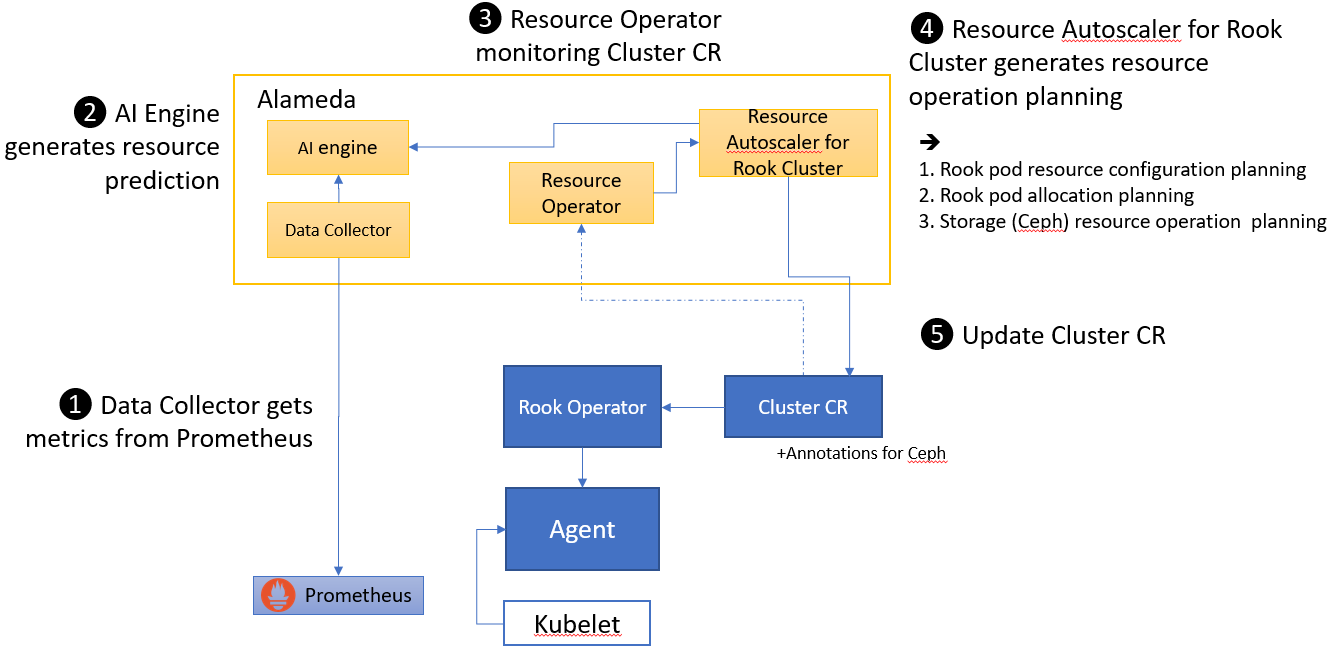
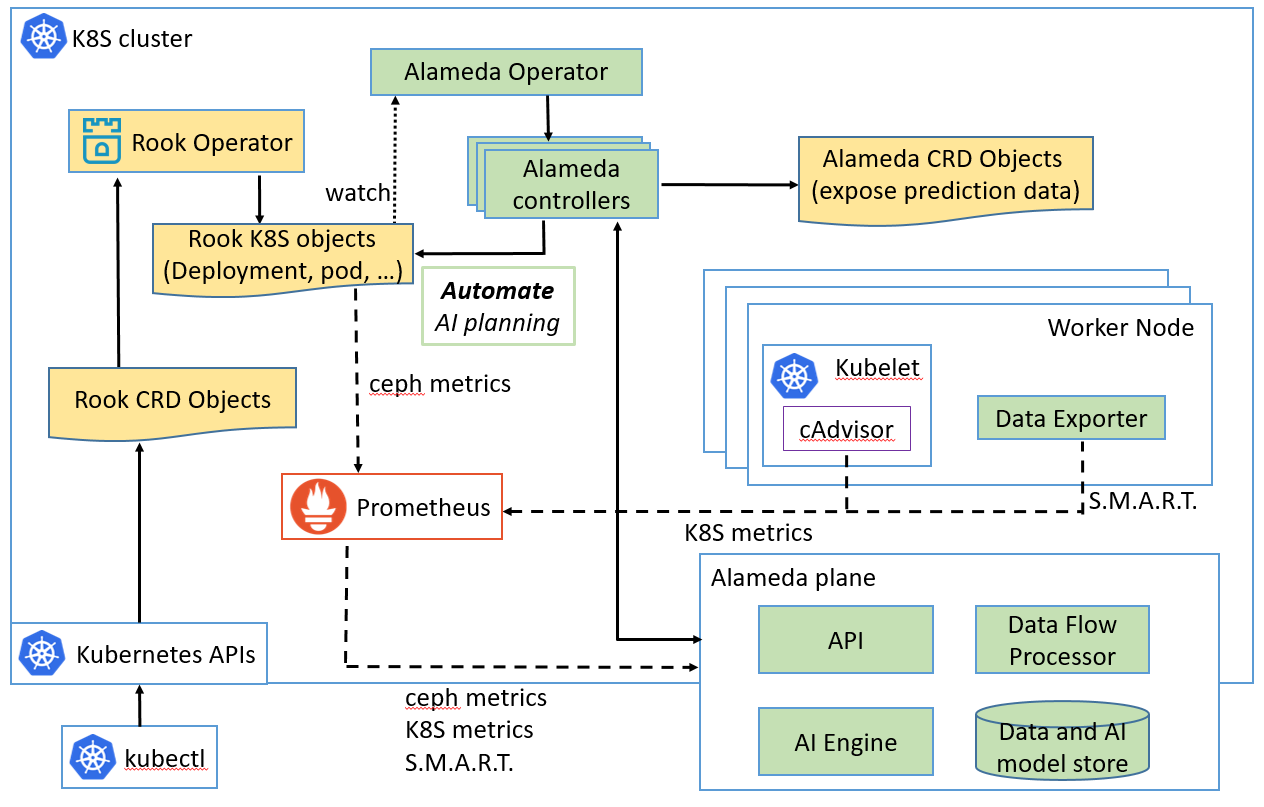
refine Alameda design

diff --git a/design/Alameda/design.md b/design/Alameda/design.md
@@ -20,41 +20,102 @@ Our first take is to provide the following features, which we consider they are 
 
 ## How Alameda works
 
-1. Alameda data collector gets metrics from Prometheus (e.g., CPU, memory, Ceph metrics)  
-No Alameda Agent is needed.
-2. Alameda AI engine generates resource prediction
-3. Alameda resource operator monitors Rook cluster CustomResource (CR) 
-Alameda monitors rook CR with Alameda annotations. For example, Rook user can add ```container.ai/autoscale``` and ```container.ai/diskFailurePrediction``` annotations in their *cluster.yaml* as:
-<pre>
-    apiVersion: v1
-    kind: Namespace
-    metadata:
-      name: rook
-    ---
-    apiVersion: rook.io/v1alpha1
-    kind: Cluster
-    metadata:
-      name: rook
-      namespace: rook
-      <b>annotations:
-        container.ai/autoscale: true
-        container.ai/diskFailurePrediction: true
-        container.ai/capacityTrendingPrediction: true</b>
-    spec:
-      versionTag: v0.5.1
-      dataDirHostPath:
-      storage:
-        useAllNodes: true
-        useAllDevices: false
-        storeConfig:
-          storeType: filestore
-          databaseSizeMB: 1024
-          journalSizeMB: 1024
-</pre>
+1. Alameda watches objects which need Alameda service  
+Proposal 1: by adding Alameda annotations to Rook CRD objects  
+Proposal 2: by creating Alameda CRD objects to specify users' K8S deployment objects.
 
-4. Alameda generates resource operation planning for Rook cluster
-5. Alameda update cluster CR  
-Alameda will (1) update CR spec, or (2) update CR spec with new definitions of planning. No matter they are (1) or (2), Rook needs to change the logic of watching CR.
+2. Alameda utilizes prometheus to scrape data, and these data is adapted into Alameda plane  
+Alameda does not have data collection agent.
+
+3. Alameda AI engine generates resource prediction  
+
+4. Alameda exposes prediction raw data via Alameda CRD objects  
+For example, with these prediction, Rook can (1) update CR spec, or (2) update CR spec with new definitions of planning.
+
+5. Alameda automates AI planning based on these prediction raw dataa  
+
 
 ![work_flow](./Alameda_work_with_Rook.png)
+
+## Request Alameda services by annotating Rook CRD objects (Proposal 1)
+
+Rook users deploy a ceph cluster by creating a Rook CRD cluster object. Rook operator will create _Deployment_, _ReplicaSet_ and _Pod_ objects subsequently according to this cluster object. All these subsequent objects can be traced back to the Rook CRD cluster object by looking into the _ownerReferences_ metadata. To request Alameda services, Rook users can annotate a Rook CRD cluster object with Alameda annotations. For example, Rook users can add ```containers.ai/autoscale```, ```containers.ai/diskFailurePrediction``` and ```containers.ai/capacityTrendingPrediction``` annotations in their *cluster.yaml* as:
+<pre>
+	apiVersion: ceph.rook.io/v1beta1
+    kind: Cluster
+    metadata:
+      name: rook-ceph
+      namespace: rook-ceph
+      <b>annotations:
+        containers.ai/autoscale: true
+        containers.ai/diskFailurePrediction: true
+        containers.ai/capacityTrendingPrediction: true</b>
+    spec:
+      dataDirHostPath: /var/lib/rook
+      serviceAccount: rook-ceph-cluster
+      storage:
+        useAllNodes: true
+        useAllDevices: true
+</pre>
+
+Then Rook operator will create a _Deployment_ object such as:
+<pre>
+    apiVersion: extensions/v1beta1
+    kind: Deployment
+    metadata:
+      annotations:
+        deployment.kubernetes.io/revision: "1"
+      creationTimestamp: 2018-09-24T06:59:25Z
+      generation: 5
+      labels:
+        app: rook-ceph-osd
+        ceph-osd-id: "1"
+        rook_cluster: rook-ceph
+      name: rook-ceph-osd-id-1
+      namespace: rook-ceph
+      ownerReferences:
+      - apiVersion: v1beta1
+        blockOwnerDeletion: true
+        kind: Cluster
+        name: rook-ceph
+        uid: e1ec433a-96f4-11e8-b01a-0a168aa5aac2
+      resourceVersion: "11765632"
+      selfLink: /apis/extensions/v1beta1/namespaces/rook-ceph/deployments/rook-ceph-osd-id-1
+      uid: 5f21a46e-bfc7-11e8-8e77-0645df3fb718
+</pre>
+
+By tracing back the _ownerReferences_ information, Alameda knows users request Alameda services.
+
+## Request Alameda services by creating Alameda CRD objects (Proposal 2)
+
+When Rook users create a Rook cluster CRD object, Rook operator may create an _Deployment_ object with the following yaml:
+<pre>
+    apiVersion: extensions/v1beta1
+    kind: Deployment
+    metadata:
+      name: rook-ceph-osd-id-1
+      namespace: rook-ceph
+      labels:
+        app: rook-ceph-osd
+        ceph-osd-id: "1"
+        rook_cluster: rook-ceph
+    spec:
+        ...
+</pre>
+meanwhile, Rook operator needs to also create an Alameda CRD object as the following yaml to request Alameda for services:
+<pre>
+	apiVersion: containers.ai/v1beta1
+    kind: Deployment
+    metadata:
+      <b>annotations:
+        containers.ai/autoscale: true
+        containers.ai/diskFailurePrediction: true
+        containers.ai/capacityTrendingPrediction: true</b>
+    spec:
+      <b>selector:
+        matchLabels:
+          app: rook-ceph-osd
+          ceph-osd-id: "1"
+          rook_cluster: rook-ceph</b>
+</pre>
 
